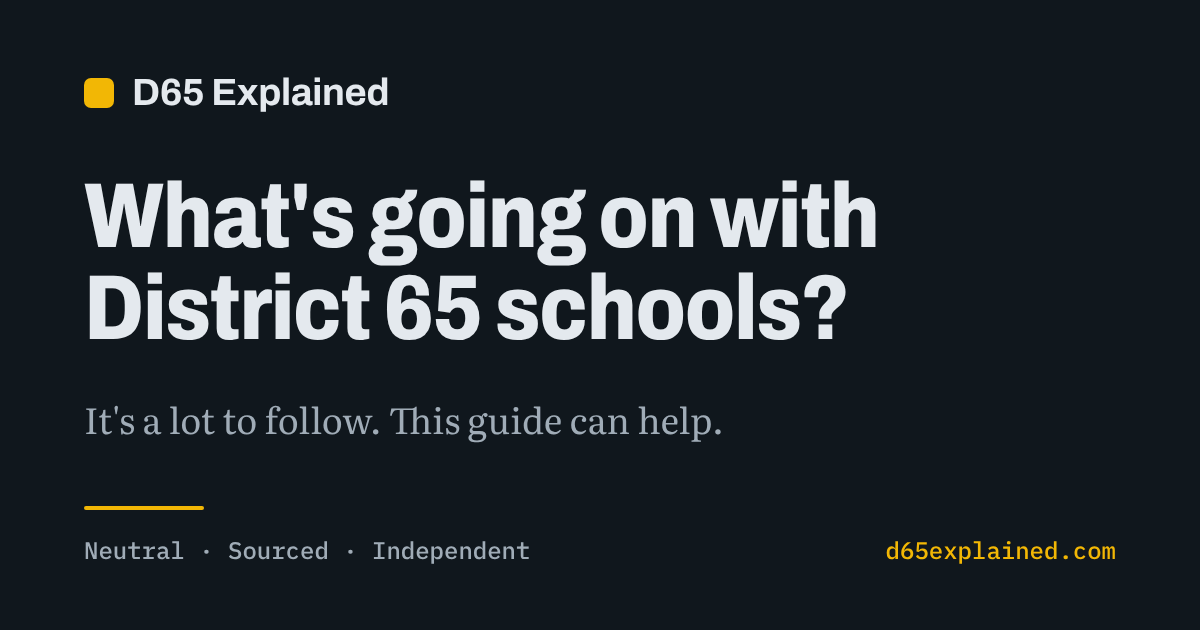
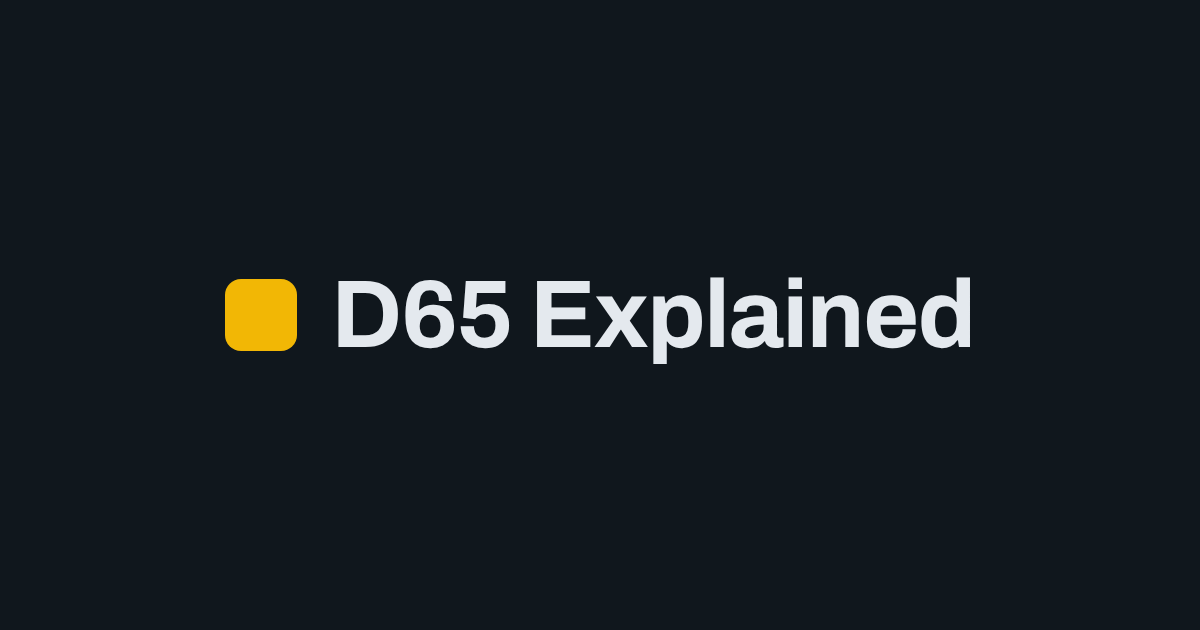
Simpler share image (dark wordmark) and shorter preview text
Claude-Session: https://claude.ai/code/session_01BGYPAAU8kW6e3NBJV5vEXd

diff --git a/site/index.html b/site/index.html
@@ -3,22 +3,22 @@
 <head>
 <meta charset="utf-8">
 <meta name="viewport" content="width=device-width,initial-scale=1,viewport-fit=cover">
-<title>D65 Explained: What's going on with District 65 schools?</title>
-<meta name="description" content="A calm, neutral guide to Evanston/Skokie School District 65: the budget gap, the cuts, school closures and why enrollment fell. Plain language, clear charts, and every fact sourced.">
+<title>D65 Explained</title>
+<meta name="description" content="A neutral, sourced guide to what's happening with District 65 schools.">
 <link rel="canonical" href="https://d65explained.com/">
 <meta name="theme-color" content="#10171d">
 <meta property="og:type" content="website">
 <meta property="og:site_name" content="D65 Explained">
-<meta property="og:title" content="D65 Explained: What's going on with District 65 schools?">
-<meta property="og:description" content="A calm, neutral guide to Evanston/Skokie School District 65: the budget gap, the cuts, school closures and why enrollment fell. Plain language, clear charts, and every fact sourced.">
+<meta property="og:title" content="D65 Explained">
+<meta property="og:description" content="A neutral, sourced guide to what's happening with District 65 schools.">
 <meta property="og:url" content="https://d65explained.com/">
 <meta property="og:image" content="https://d65explained.com/og.png">
 <meta property="og:image:width" content="1200">
 <meta property="og:image:height" content="630">
-<meta property="og:image:alt" content="D65 Explained: What's going on with District 65 schools? It's a lot to follow. This guide can help.">
+<meta property="og:image:alt" content="D65 Explained">
 <meta name="twitter:card" content="summary_large_image">
-<meta name="twitter:title" content="D65 Explained: What's going on with District 65 schools?">
-<meta name="twitter:description" content="A calm, neutral guide to Evanston/Skokie School District 65: the budget gap, the cuts, school closures and why enrollment fell. Plain language, clear charts, and every fact sourced.">
+<meta name="twitter:title" content="D65 Explained">
+<meta name="twitter:description" content="A neutral, sourced guide to what's happening with District 65 schools.">
 <meta name="twitter:image" content="https://d65explained.com/og.png">
 <link rel="icon" href="/favicon.svg" type="image/svg+xml">
 <link rel="icon" href="/favicon-32.png" sizes="32x32" type="image/png">

diff --git a/site/story.html b/site/story.html
@@ -4,21 +4,21 @@
 <meta charset="utf-8">
 <meta name="viewport" content="width=device-width,initial-scale=1,viewport-fit=cover">
 <title>The story · D65 Explained</title>
-<meta name="description" content="How District 65 got here, one idea at a time: money, special education, enrollment, school closures, Foster School and trust. Every fact sourced.">
+<meta name="description" content="How District 65 got here, one idea at a time.">
 <link rel="canonical" href="https://d65explained.com/story.html">
 <meta name="theme-color" content="#10171d">
 <meta property="og:type" content="website">
 <meta property="og:site_name" content="D65 Explained">
 <meta property="og:title" content="The story · D65 Explained">
-<meta property="og:description" content="How District 65 got here, one idea at a time: money, special education, enrollment, school closures, Foster School and trust. Every fact sourced.">
+<meta property="og:description" content="How District 65 got here, one idea at a time.">
 <meta property="og:url" content="https://d65explained.com/story.html">
 <meta property="og:image" content="https://d65explained.com/og.png">
 <meta property="og:image:width" content="1200">
 <meta property="og:image:height" content="630">
-<meta property="og:image:alt" content="D65 Explained: What's going on with District 65 schools? It's a lot to follow. This guide can help.">
+<meta property="og:image:alt" content="D65 Explained">
 <meta name="twitter:card" content="summary_large_image">
 <meta name="twitter:title" content="The story · D65 Explained">
-<meta name="twitter:description" content="How District 65 got here, one idea at a time: money, special education, enrollment, school closures, Foster School and trust. Every fact sourced.">
+<meta name="twitter:description" content="How District 65 got here, one idea at a time.">
 <meta name="twitter:image" content="https://d65explained.com/og.png">
 <link rel="icon" href="/favicon.svg" type="image/svg+xml">
 <link rel="icon" href="/favicon-32.png" sizes="32x32" type="image/png">
